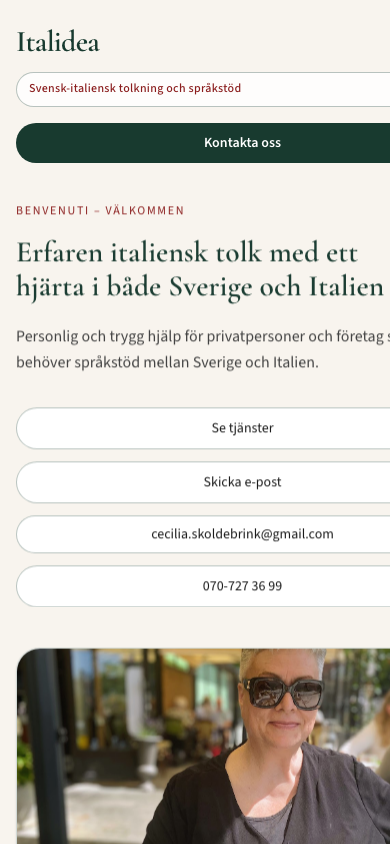
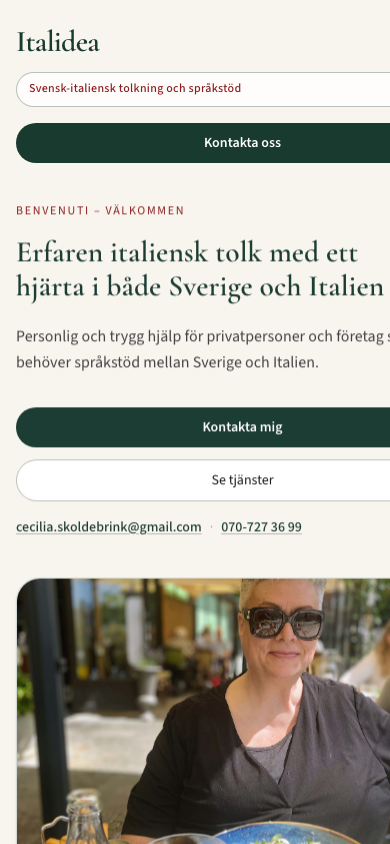
fix: simplify mobile hero CTAs and README screenshot layout
Use two primary buttons plus text links for contact; full-width mobile
README captures; break-words on intro copy.

diff --git a/src/app/page.tsx b/src/app/page.tsx
@@ -75,36 +75,41 @@ export default function Home() {
             <h1 className="font-display text-[1.85rem] font-semibold leading-[1.15] text-balance text-[#183a2f] sm:text-4xl md:text-6xl md:leading-[1.05]">
               Erfaren italiensk tolk med ett hjärta i både Sverige och Italien
             </h1>
-            <p className="mt-5 max-w-2xl text-base leading-relaxed text-neutral-700 sm:mt-6 sm:text-lg">
+            <p className="mt-5 w-full max-w-2xl break-words text-base leading-relaxed text-neutral-700 sm:mt-6 sm:text-lg">
               Personlig och trygg hjälp för privatpersoner och företag som
               behöver språkstöd mellan Sverige och Italien.
             </p>
             <div className="mt-8 flex w-full min-w-0 flex-col gap-3 sm:flex-row sm:flex-wrap">
+              <a
+                href="#kontakt"
+                className="btn-primary w-full px-5 py-2.5 text-sm sm:w-auto"
+              >
+                Kontakta mig
+              </a>
               <a
                 href="#tjanster"
                 className="btn-secondary w-full px-5 py-2.5 text-sm sm:w-auto"
               >
                 Se tjänster
               </a>
+            </div>
+            <p className="mt-4 text-sm text-neutral-600">
               <a
                 href="mailto:cecilia.skoldebrink@gmail.com"
-                className="btn-secondary w-full px-5 py-2.5 text-sm sm:hidden"
-              >
-                Skicka e-post
-              </a>
-              <a
-                href="mailto:cecilia.skoldebrink@gmail.com"
-                className="btn-secondary hidden px-5 py-2 text-sm sm:inline-flex"
+                className="break-all font-medium text-[#183a2f] underline decoration-[#183a2f]/30 underline-offset-2"
               >
                 cecilia.skoldebrink@gmail.com
               </a>
+              <span className="mx-2 text-neutral-400" aria-hidden>
+                ·
+              </span>
               <a
                 href="tel:+46707273699"
-                className="btn-secondary w-full px-5 py-2.5 text-sm sm:w-auto"
+                className="font-medium text-[#183a2f] underline decoration-[#183a2f]/30 underline-offset-2"
               >
                 070-727 36 99
               </a>
-            </div>
+            </p>
           </div>
 
           <div

diff --git a/README.md b/README.md
@@ -2,9 +2,13 @@
 
 Marketing website for **Italidea** — Swedish–Italian interpretation, mediation, and practical language support for private clients and businesses.
 
-| Desktop (1440px) | Mobile (390px) |
-| --- | --- |
-| ![Hero — desktop](./docs/screenshots/hero-desktop.png) | ![Hero — mobile](./docs/screenshots/hero-mobile.png) |
+### Desktop (1440px)
+
+![Hero — desktop](./docs/screenshots/hero-desktop.png)
+
+### Mobile (390px)
+
+![Hero — mobile](./docs/screenshots/hero-mobile.png)
 
 ## Live site
 
